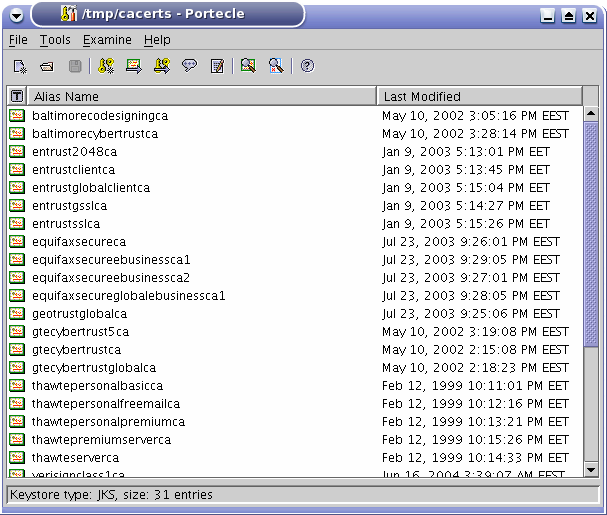
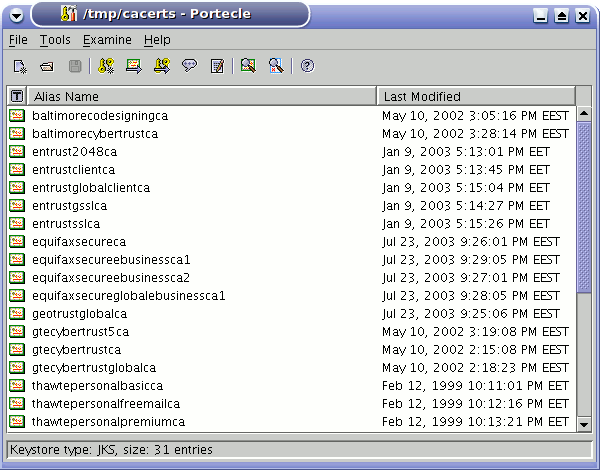
Once more: smaller screenshot (this time <640x480 so we can reuse it in the SF.net project page).

Changed region(s): [[0.0, 0.0, 1.0, 1.0]]

diff --git a/portecle/doc/tour.html b/portecle/doc/tour.html
@@ -18,7 +18,7 @@
     </p>
 
     <p>
-      <img src="images/portecle.png" width="607" height="515"
+      <img src="images/portecle.png" width="600" height="480"
         alt="Screen shot of Portecle">
     </p>
 
